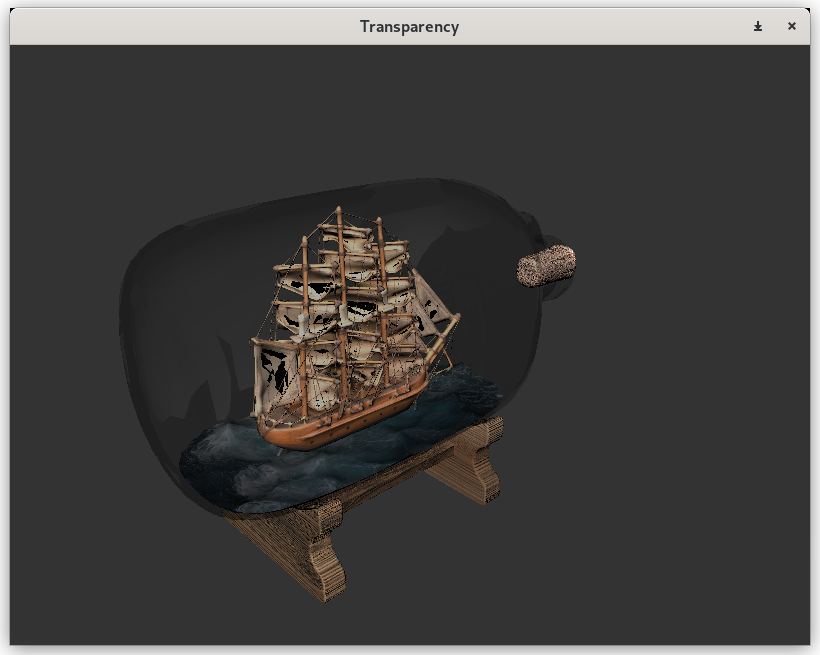
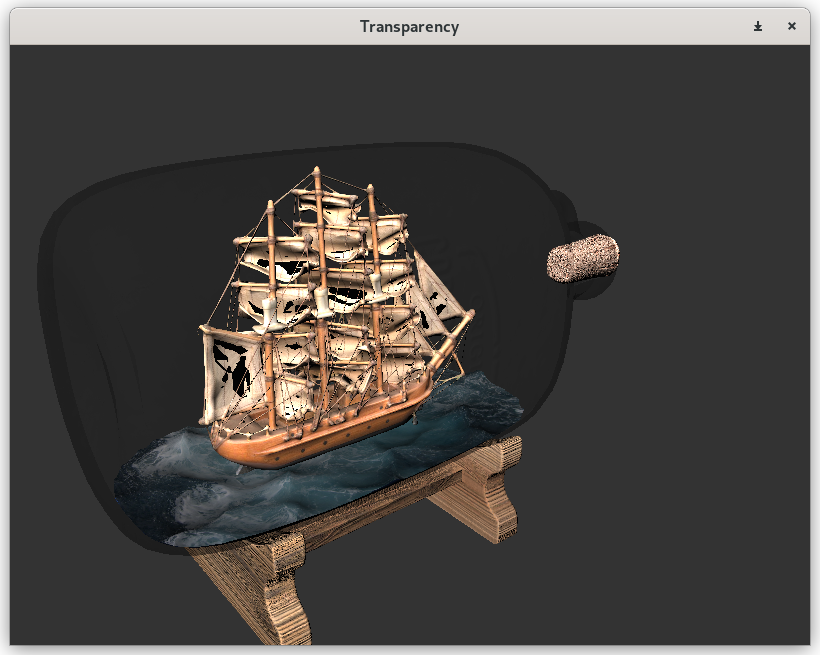
fix transparency order

Changed region(s): [[0.122, 0.2443, 0.6402, 1.0], [0.6098, 0.3359, 0.7622, 0.458]]

diff --git a/Base/Mesh.cpp b/Base/Mesh.cpp
@@ -22,13 +22,14 @@ void Mesh::Draw(const Shader *shader, const RenderPass &pass) const
     if (!_vao || !_indicesCount || !drawMesh)
         return;
     auto hasCullFace = glIsEnabled(GL_CULL_FACE);
+    auto isTransparent = false;
     if (material)
     {
         // if unordered, skip all checking
         if (pass != RenderPass::AllUnOrdered)
         {
             // check render pass for transparency
-            auto isTransparent = material->valOpacity < 1.0f || material->opacity;
+            isTransparent = material->valOpacity < 1.0f || material->opacity;
             if ((pass == RenderPass::Opaque && isTransparent) || (pass == RenderPass::Transparent && !isTransparent))
                 return;
             // check render pass for refraction
@@ -44,7 +45,17 @@ void Mesh::Draw(const Shader *shader, const RenderPass &pass) const
             glEnable(GL_CULL_FACE);
     }
     _vao->Bind();
-    glDrawElements(primType, static_cast<GLsizei>(_indicesCount), GL_UNSIGNED_INT, 0);
+    if (isTransparent)
+    {
+        // for transparent meshes, render back face and then front face
+        glEnable(GL_CULL_FACE);
+        glCullFace(GL_FRONT);
+        glDrawElements(primType, static_cast<GLsizei>(_indicesCount), GL_UNSIGNED_INT, 0);
+        glCullFace(GL_BACK);
+        glDrawElements(primType, static_cast<GLsizei>(_indicesCount), GL_UNSIGNED_INT, 0);
+    }
+    else
+        glDrawElements(primType, static_cast<GLsizei>(_indicesCount), GL_UNSIGNED_INT, 0);
     _vao->UnBind();
     if (hasCullFace)
         glEnable(GL_CULL_FACE);

diff --git a/Base/Model.cpp b/Base/Model.cpp
@@ -226,10 +226,6 @@ bool Model::Load(const std::string &modelSource, bool isFile, unsigned flags, bo
                     material->valHasPBR = false;
             }
 
-            // avoid cull artifacts
-            if (material->valOpacity < 1.0f)
-                material->twoSided = true;
-
             // vertex bone info
             for (auto boneIdx = 0u; boneIdx < mesh->mNumBones; ++boneIdx)
             {
